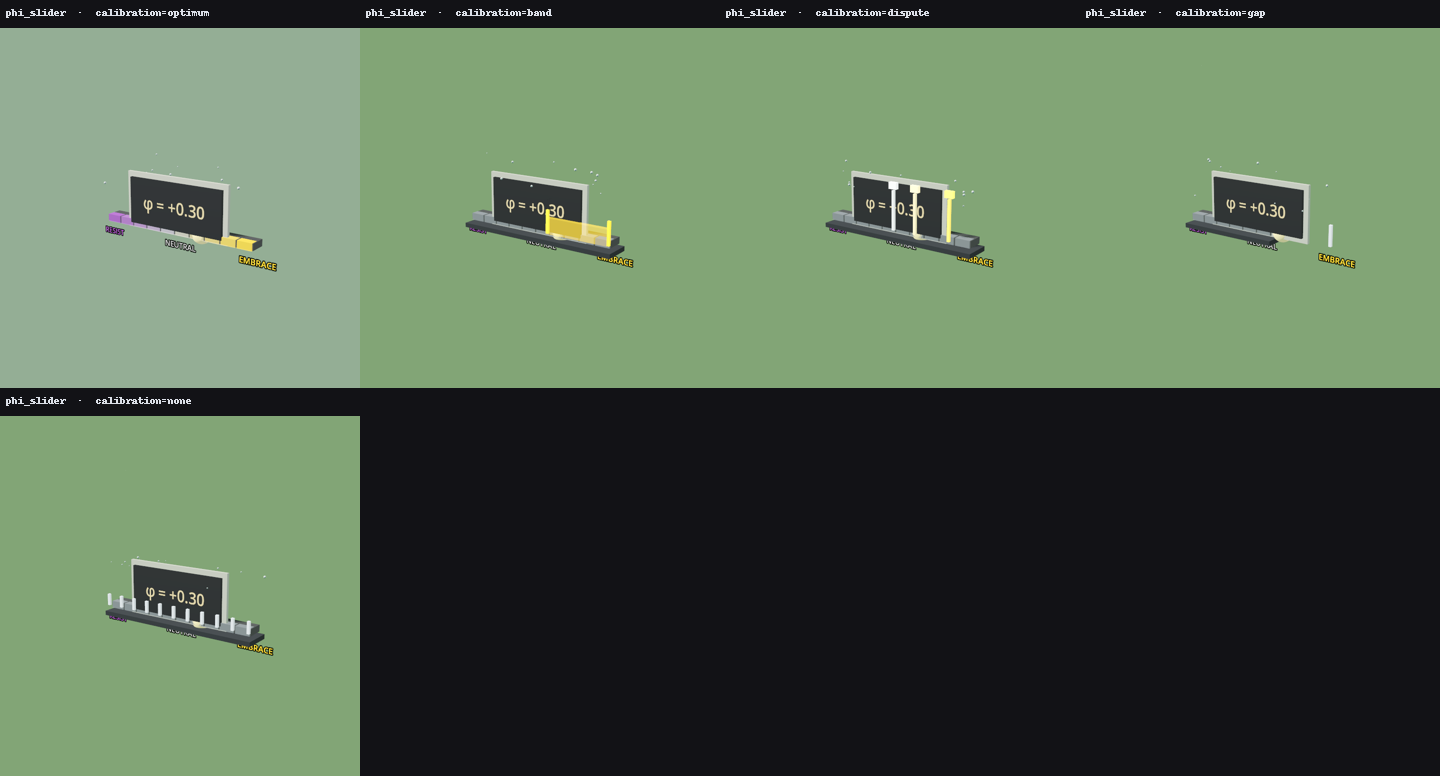
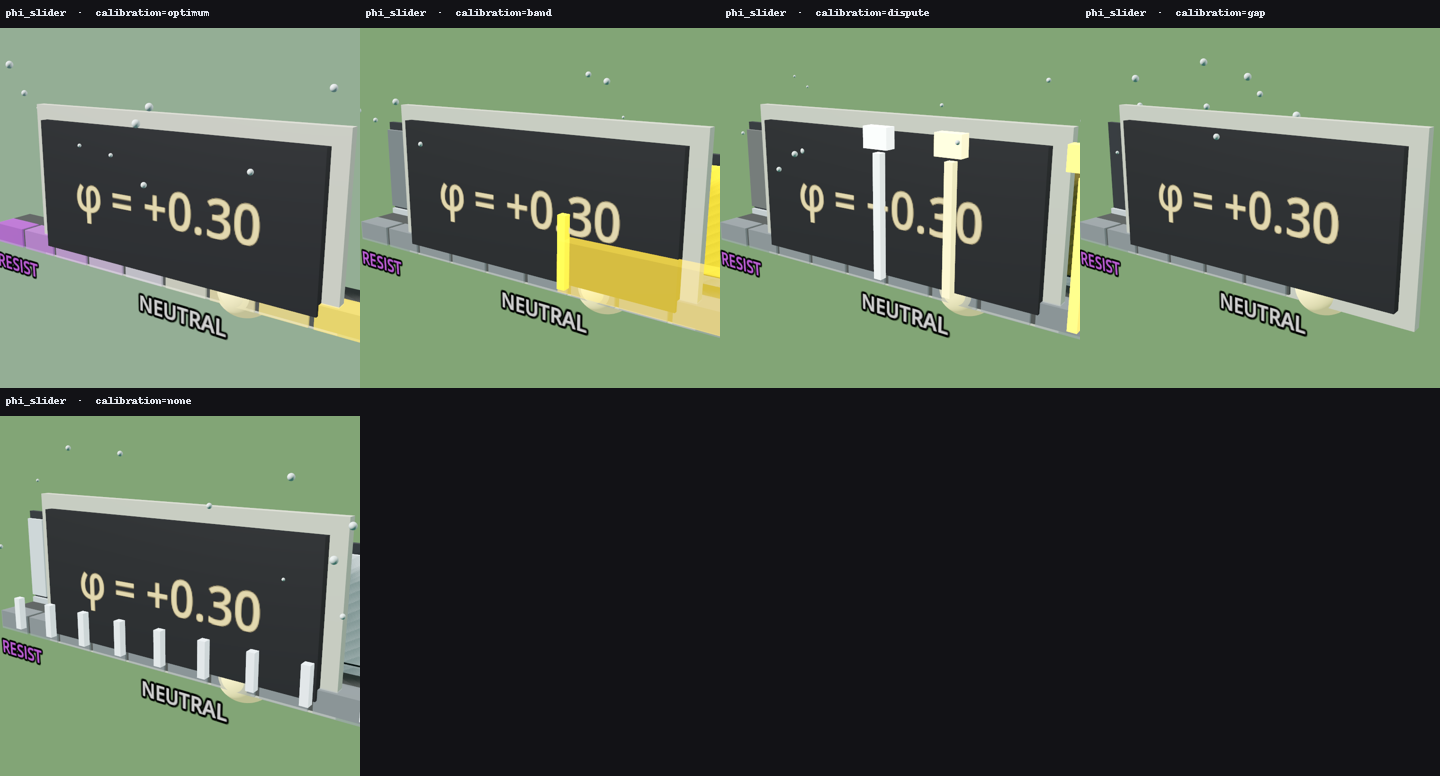
fix(dna): phi_slider went from NO RENDER to the strongest axis in the set
Two fixes, both of them the gallery builder reporting a fact about itself as a fact about an artifact.

1. THE BUILDER KEPT ITS OWN registry(). A lookup name appears in more than one file under commons/artifacts/registry, and substrate_vectors.json is a feature-weight table keyed by the same names. Under last-write-wins a body-less entry displaced the real one, so lambda_slider, phi_slider, qfep_formula_3d and schrodinger_box were all skipped as no-declared-axes while the gate reported them declared. check_dna_declarations.py already carried the fix; the builder now imports it instead of duplicating it.

2. phi_slider measured NO RENDER, subject 0.00% of frame. It builds fine: 12 meshes, AABB 0.50 x 0.06 x 0.06 m. But the capture fits by the bounding-box DIAGONAL, so a rail 8x wider than tall lands as a sliver about 3% of a square frame, under the critic subject threshold. lambda_slider escapes only because its console body gives it bulk. Same fit-by-diagonal fault that makes curation_station read INERT, hit from the opposite extreme. Fixed with dna.framing 0.34, the hook that already exists, rather than by changing the shared rig. phi_slider.calibration: NO RENDER to 61.60 percent focus, the strongest in the set. Nothing about the axis changed; the verdict was about the camera.

Spine tail now: 7 axes, 6 bite, 0 inert, 0 unrendered.

Changed region(s): [[0.0, 0.1237, 1.0, 0.433], [0.0, 0.6186, 0.25, 0.9278]]

diff --git a/tools/build_dna_gallery.py b/tools/build_dna_gallery.py
@@ -30,26 +30,21 @@ import sys
 from pathlib import Path
 
 sys.path.insert(0, str(Path(__file__).resolve().parent))
-from check_dna_declarations import check_token  # noqa: E402
+from check_dna_declarations import check_token, registry  # noqa: E402
 
 REPO = Path(__file__).resolve().parents[1]
 ENC = REPO.parent / "ada_encyclopedia" / "public"
 SWEEP_OUT = REPO / "ada_run" / "sweep"
 
 
-def registry() -> dict:
-    out: dict = {}
-    for rp in (REPO / "commons" / "artifacts" / "registry").glob("*.json"):
-        try:
-            data = json.loads(rp.read_text(encoding="utf-8"))
-        except Exception:
-            continue
-        arts = data.get("artifacts", data) if isinstance(data, dict) else data
-        if isinstance(arts, dict):
-            for tok, e in arts.items():
-                if isinstance(e, dict):
-                    out[tok] = e
-    return out
+# registry() is IMPORTED, not redefined. A lookup name can appear in more than one file
+# under commons/artifacts/registry, and not all of them are artifact registries —
+# substrate_vectors.json is a feature-weight table keyed by the same names. This file used
+# to carry its own last-write-wins copy, so a body-less entry displaced the real one and
+# four already-promoted qfep artifacts were skipped here as "no declared dna.axes" while
+# the gate reported them declared. That is a fact about file ordering presented as a fact
+# about the artifact — the same disease the declaration checker exists to cure, so it gets
+# the same cure: one implementation, in the module that already got it right.
 
 
 def sweep(token: str, axes: dict, cap: int) -> list[dict]:
@@ -138,10 +133,12 @@ def main() -> int:
     for token in tokens:
         if only and token not in only:
             continue
-        e = reg.get(token)
-        if not e:
+        found = reg.get(token)
+        if not found:
             print(f"  {token}: not in registry")
             continue
+        # The shared registry() returns (entry, source_filename); this file wants the entry.
+        e = found[0] if isinstance(found, tuple) else found
         axes = ((e.get("dna") or {}).get("axes") or {})
         if not axes:
             print(f"  {token}: no declared dna.axes — skipped (never swept on raw exports)")
